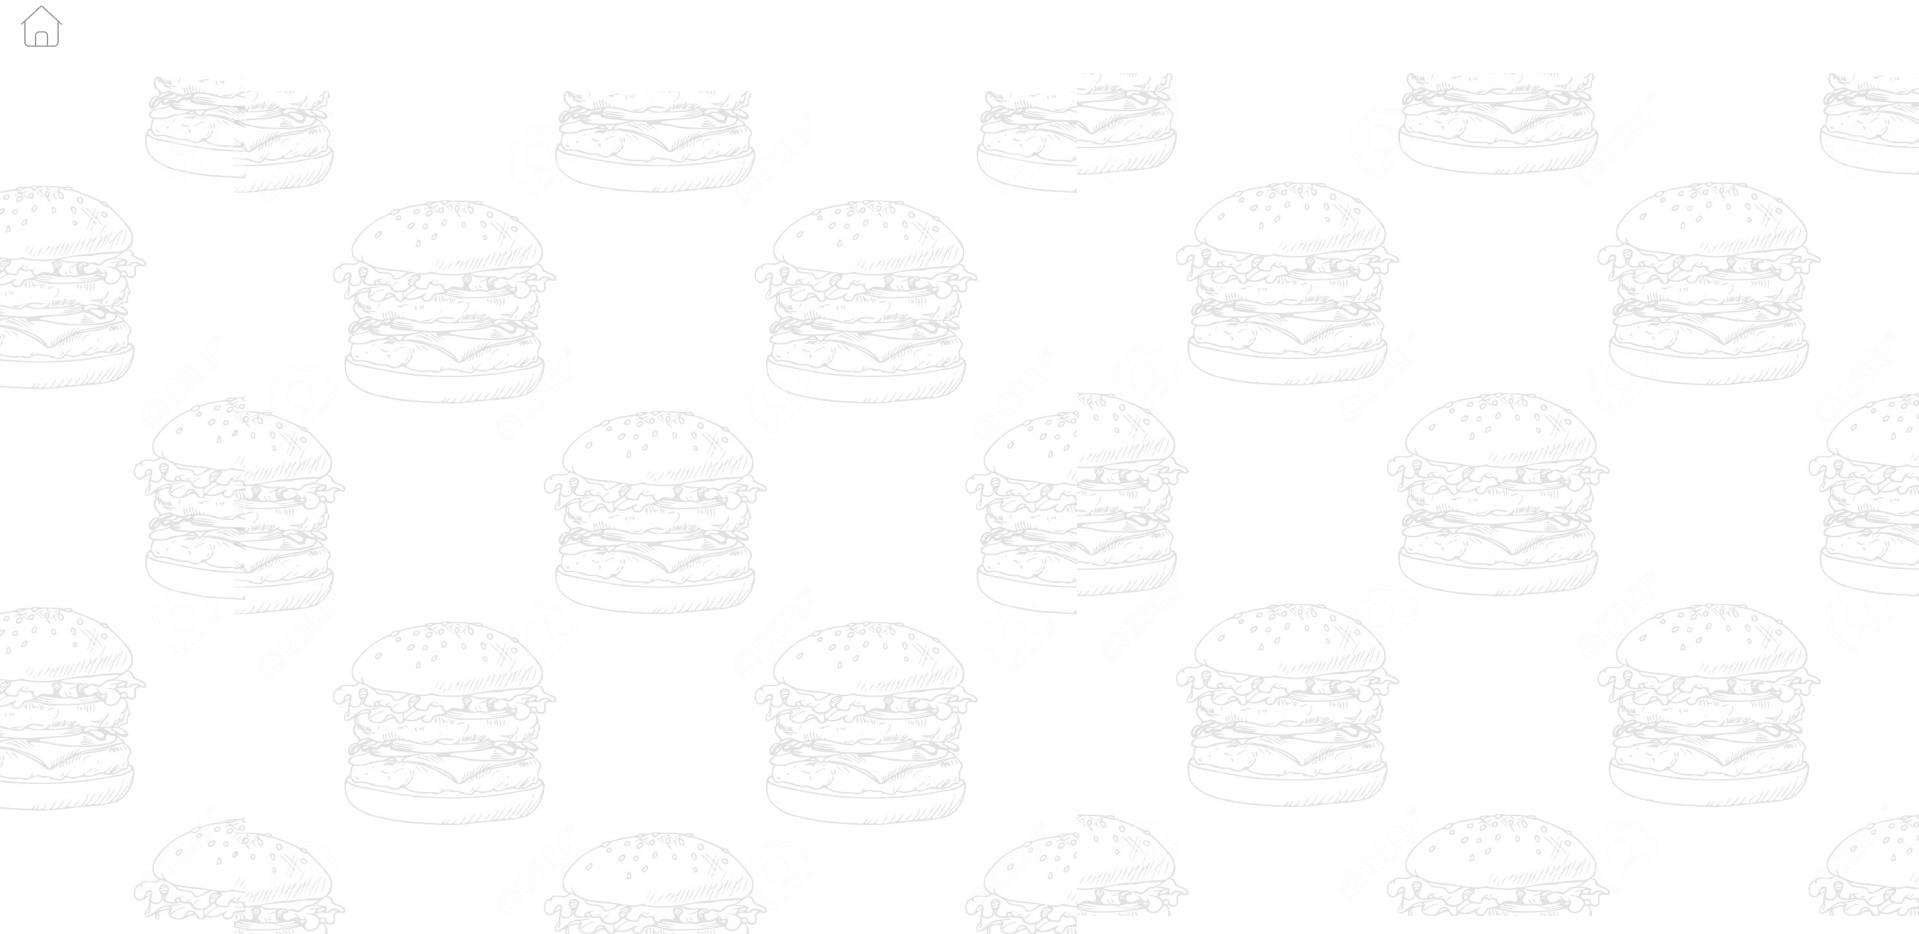
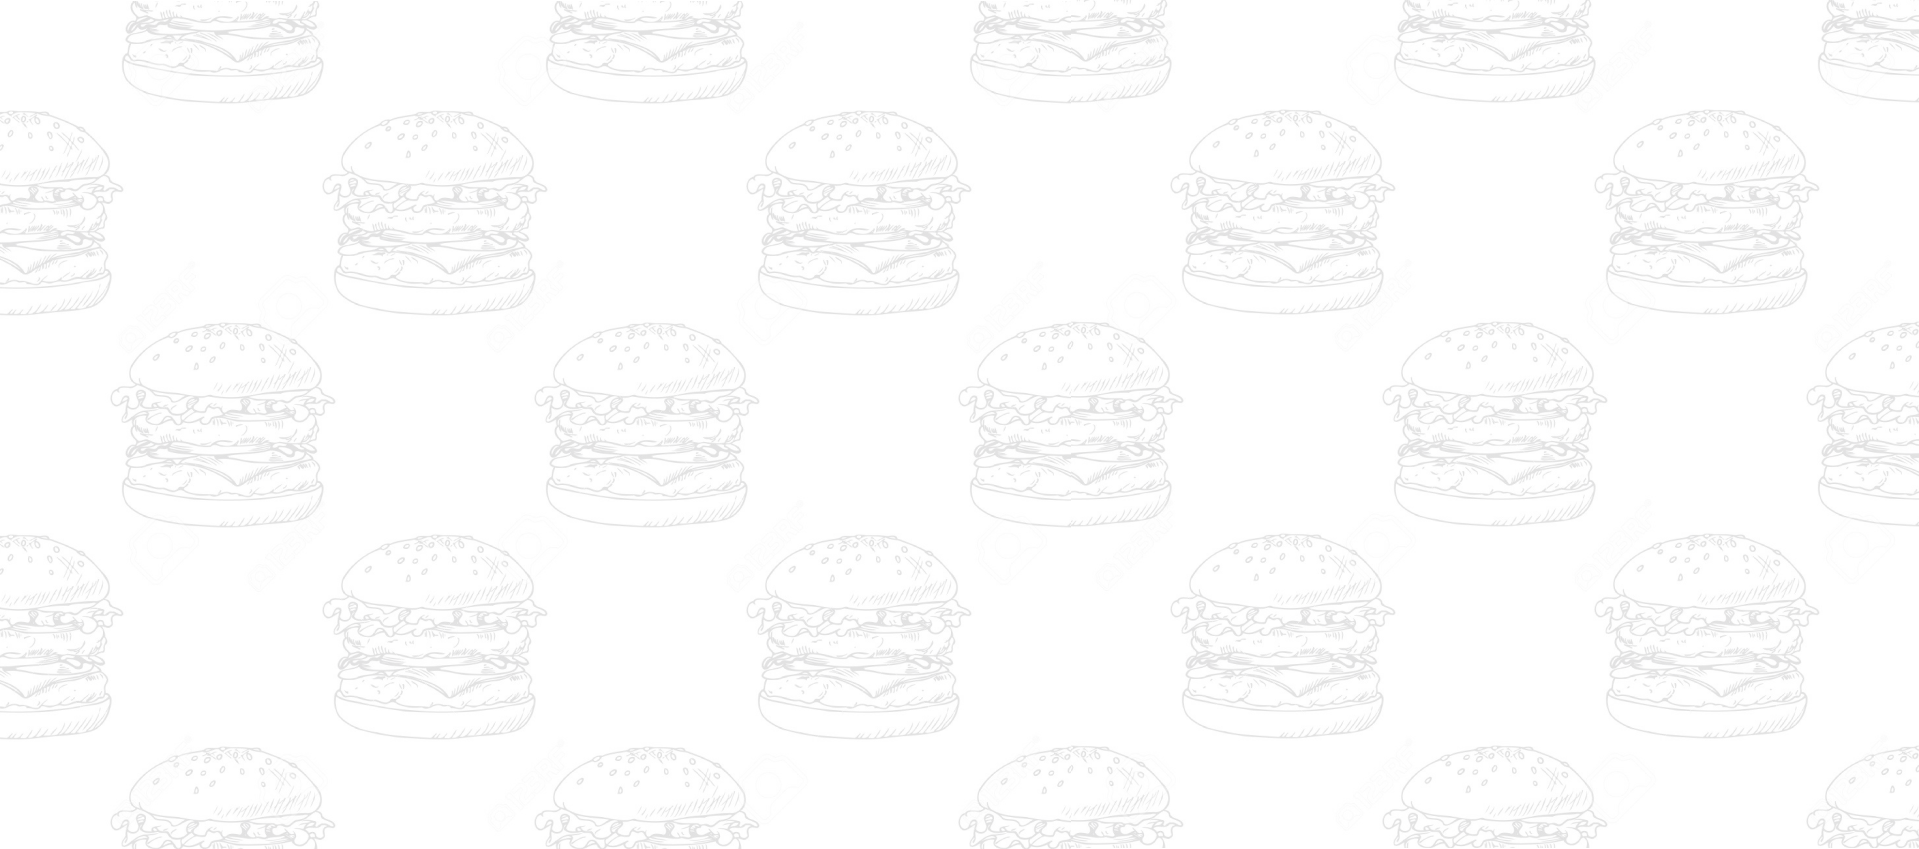
continuação página menu

diff --git a/BurguerStation/index.html b/BurguerStation/index.html
@@ -13,19 +13,73 @@
 </head>
 
 <body>
-    <main class="main_menu"></main>
-    <section class="secao_logo"></section>
-    
-    
     <header>
-        <div class="container_cabecalho"></div>
+
     </header>
-    <img class="img_logo" src="../BurguerStation/assets/Logo Menu.png" alt="">
+
+    <main class="iconedefundo_menu">
+        <section>
+            <div>
+                <img class="img_logo" src="../BurguerStation/assets/Logo Menu.png" alt="logo">
+                <img class="banners" src="../BurguerStation/assets/Group 5 (1).png" alt="">
+            </div>
+        </section>
+
+        <h1 class="acessível">Pagina inicial</h1>
+
+        <section class="secao_cards">
+            
+            <a class="card card_frango" href="">
+                <img class="plus" src="../BurguerStation/assets/Vector Frango.png" alt="">
+                <img src="../BurguerStation/assets/hambuguer frango.png" alt="">
+                <img class="etiqueta" src="../BurguerStation/assets/etiqueta frango.png" alt="">
+                <h2>FRANGO</h2>
+            </a>
+            
+            <a class="card card_vegetariano" href="">
+                <img class="plus" src="../BurguerStation/assets/Vector Frango.png" alt="">
+                <img src="../BurguerStation/assets/hamburguer vegetariano.png" alt="">
+                <img class="etiqueta" src="../BurguerStation/assets/etiqueta frango.png" alt="">
+                <h2>VEGETARIANO</h2>
+            </a>
+            
+            <a class="card card_bovino" href="">
+                <img class="plus" src="../BurguerStation/assets/Vector Frango.png" alt="">
+                <img src="../BurguerStation/assets/hamburguer bovino.png" alt="">
+                <img class="etiqueta" src="../BurguerStation/assets/etiqueta frango.png" alt="">
+                <h2>CARNE</h2>
+            </a>
+            
+            <a class="card card_acompanhamento" href="">
+                <img class="plus" src="../BurguerStation/assets/Vector Frango.png" alt="">
+                <img src="../BurguerStation/assets/Batata frita.png" alt="">
+                <img class="etiqueta" src="../BurguerStation/assets/etiqueta frango.png" alt="">
+                <h2>ACOMPANHAMENTOS</h2>
+            </a>
+            
+            <a class="card card_sobremesas" href="">
+                <img class="plus" src="../BurguerStation/assets/Vector Frango.png" alt="">
+                <img src="../BurguerStation/assets/Sorvete.png" alt="">
+                <img class="etiqueta" src="../BurguerStation/assets/etiqueta frango.png" alt="">
+                <h2>SOBREMESAS</h2>
+            </a>
+            
+            <a class="card card_bebidas" href="">
+                <img class="plus" src="../BurguerStation/assets/Vector Frango.png" alt="">
+                <img src="../BurguerStation/assets/Bebida.png" alt="">
+                <img class="etiqueta" src="../BurguerStation/assets/etiqueta frango.png" alt="">
+                <h2>BEBIDAS</h2>
+            </a>
 
 
-    <img class="banners" src="../BurguerStation/assets/Banner.png" alt="">
-    <img class="banners" src="../BurguerStation/assets/Banner 1.png" alt="">
-    
+        </section>
+
+         <a class="whatsapp" href="https://wa.me/5511999999999?text=Olá%20,%20gostaria%20de%20mais%20informações." target="_blank"> 
+         <!-- como abrir o whatsapp web a partir da tag a no html */ -->
+            <img src="../BurguerStation/assets/Ícone Whatsapp Menu.png" alt="icone do whatsapp">
+        </a>
+    </main>
+
 </body>
 
 </html>

diff --git a/BurguerStation/style.css b/BurguerStation/style.css
@@ -10,6 +10,10 @@
     --sombreamento: 0 4px 4px 2px #00000025;
 }
 
+h1{
+    display: none;
+}
+
 body{
     background-color: #ffffff;
 }
@@ -19,21 +23,8 @@ header {
     height: 100px;
 }
 
-.container_cabecalho {
-    display: flex;
-    justify-content: space-between;
-    width: 90%;
-    max-width: 1440px;
-    /* background-color: aquamarine; */
-    margin: 0 auto;
-    height: 100%;
-    align-items: center;
-}
-
-.main_menu{
-    width: 90%;
-    max-width: 1440px;
-    margin: 0 auto;
+.iconedefundo_menu{
+    background-image: url("../BurguerStation/assets/Fundo\ do\ Layout.png");
     display: flex;
 }
 
@@ -50,9 +41,55 @@ header {
     width: 150px;
 }
 
-/* .banners{
-    width: 460px;
-} */
+.secao_cards{
+    width: calc(100%-360px);
+    display: flex;
+    flex-wrap: wrap;
+    justify-content: center;
+    gap: 10%;
+}
+
+.card{
+    margin: 50px 0;
+    height: 360px;
+    text-decoration: none;
+    color: #ffffff;
+    display: flex;
+    flex-direction: column;
+    border-radius: 25px;
+    padding: 10px 10px 40px 10px;
+    justify-content: space-between;
+    align-items: center;
+    font-size: 20px;
+    box-shadow: 0 0 40px 2px #00000075;
+    width: 260px;
+    background: linear-gradient(178deg,rgba(229, 124, 32, 1) 0%, rgba(137, 29, 19, 1) 100%);
+}
+
+.plus{
+    position: relative;
+    top: 10px;
+    right: -100px;
+}
+
+.whatsapp{
+    position: fixed; /* fixed= exclusivamente para deixar fixo na tela*/
+    right: 30px;
+    bottom: 30px;
+    transition: transform 0.5s ease-in-out,
+                filter 0.5s ease-in-out;}
+
+.whatsapp img{
+    width: 80px;
+    filter: drop-shadow(0 5px 1px #00000025);
+}
+
+.whatsapp:hover{
+    transform: scale(1.2);
+    filter: drop-shadow(0 10px 2px #00000025);
+}
+
+
 
 
 
